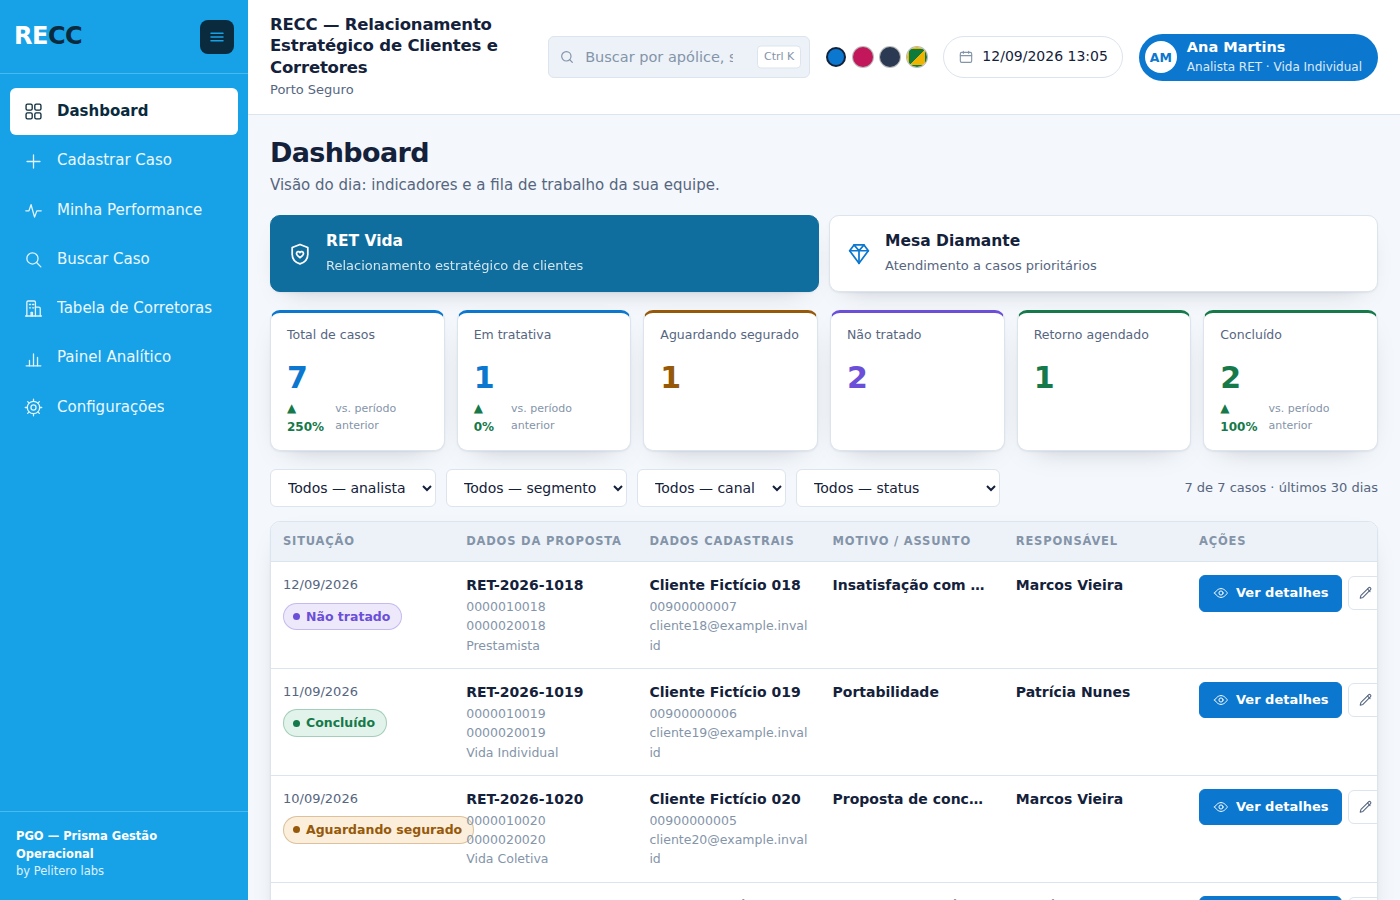
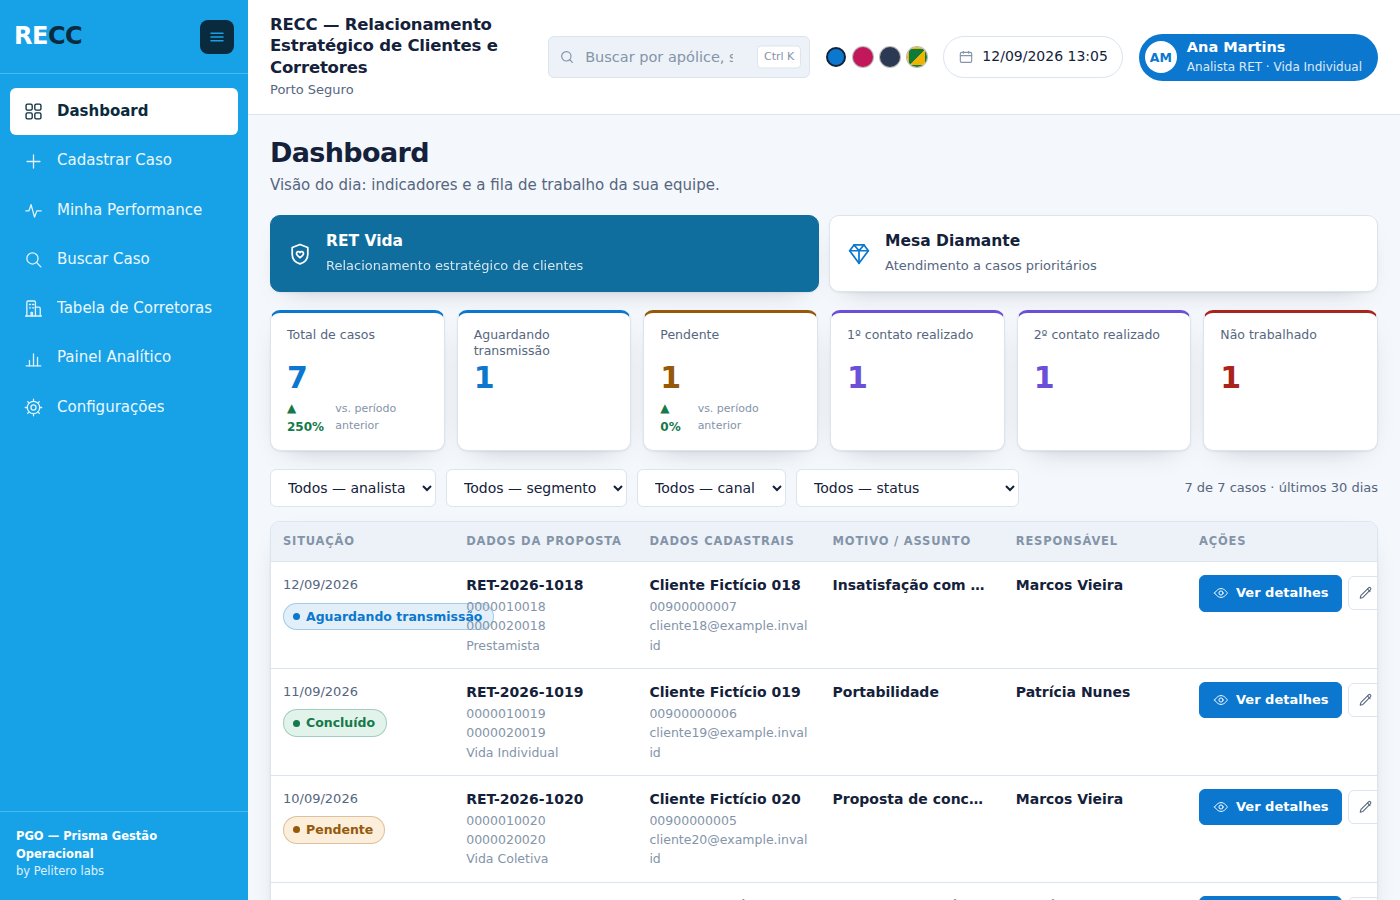
feat: as situacoes e os cards da RET Vida, como a operacao trabalha
As situacoes que eu tinha semeado para a RET eram invencao minha — o
contrato do PO listava a coluna "status", nunca os valores dela.

Situacoes da RET Vida
  Aguardando transmissao, Pendente, 1o contato realizado,
  2o contato realizado, Nao trabalhado e Concluido

Cards do Dashboard
  o total mais as cinco que ainda pedem trabalho. "Concluido" existe
  como situacao mas NAO ganha cartao: o Dashboard responde "o que eu
  tenho que trabalhar hoje", e caso concluido nao e trabalho. Quem
  quiser o numero acrescenta o cartao em Configuracoes → Paineis

Dados ficticios da previa ajustados as situacoes novas.

184 testes, cinco execucoes limpas.

Claude-Session: https://claude.ai/code/session_014N3v7WTiPHUcZbu9vUqUcc

diff --git a/Evolucao/Testes/gerar-previa.js b/Evolucao/Testes/gerar-previa.js
@@ -249,7 +249,7 @@ function gerar(pastaDeSaida) {
     { analista: 'Marcos Vieira', status: 'Concluído',
       'data de recepção do protocolo': diasAtras(41),
       'nome do cliente': 'Retenção do mês passado', protocolo: 'RET-2026-0891' },
-    { analista: 'Patrícia Nunes', status: 'Em tratativa',
+    { analista: 'Patrícia Nunes', status: 'Pendente',
       'data de recepção do protocolo': diasAtras(36),
       'nome do cliente': 'Outra do mês passado', protocolo: 'RET-2026-0892' }
   ]);
@@ -280,7 +280,7 @@ function gerar(pastaDeSaida) {
       'valor do prêmio': 3410.5, 'valor do prêmio retido': 0,
       'prêmio mensal retido': 0, canal: 'Telefone',
       protocolo: 'RET-2026-1023', cod_sucursal: '0000000012', cod_ramo: '0000000993',
-      Num_apolice: '0000020023', CPF: '00900000002', status: 'Não tratado',
+      Num_apolice: '0000020023', CPF: '00900000002', status: 'Não trabalhado',
       'Forma de pagamento': 'Boleto',
       'motivo do cancelamento': 'Coberturas', 'e-mail': 'cliente23@example.invalid',
       'telefones de contato': '11900000023', 'tentativas de contato': 0,
@@ -295,7 +295,7 @@ function gerar(pastaDeSaida) {
       'valor do prêmio': 890, 'valor do prêmio retido': 0,
       'prêmio mensal retido': 0, canal: 'E-mail',
       protocolo: 'RET-2026-1022', cod_sucursal: '0000000012', cod_ramo: '0000000993',
-      Num_apolice: '0000020022', CPF: '00900000003', status: 'Retorno agendado',
+      Num_apolice: '0000020022', CPF: '00900000003', status: '2º contato realizado',
       'Forma de pagamento': 'Cartão de crédito',
       'motivo do cancelamento': 'Dificuldade financeira',
       'e-mail': 'cliente22@example.invalid',
@@ -311,7 +311,7 @@ function gerar(pastaDeSaida) {
       'valor do prêmio': 2140.75, 'valor do prêmio retido': 2140.75,
       'prêmio mensal retido': 178.4, canal: 'Corretora',
       protocolo: 'RET-2026-1021', cod_sucursal: '0000000012', cod_ramo: '0000000993',
-      Num_apolice: '0000020021', CPF: '00900000004', status: 'Em tratativa',
+      Num_apolice: '0000020021', CPF: '00900000004', status: '1º contato realizado',
       'Forma de pagamento': 'PIX',
       'motivo do cancelamento': 'Aumento do prêmio na renovação',
       'e-mail': 'cliente21@example.invalid',
@@ -327,7 +327,7 @@ function gerar(pastaDeSaida) {
       'valor do prêmio': 5620, 'valor do prêmio retido': 0,
       'prêmio mensal retido': 0, canal: 'Ouvidoria',
       protocolo: 'RET-2026-1020', cod_sucursal: '0000000012', cod_ramo: '0000000993',
-      Num_apolice: '0000020020', CPF: '00900000005', status: 'Aguardando segurado',
+      Num_apolice: '0000020020', CPF: '00900000005', status: 'Pendente',
       'Forma de pagamento': 'Boleto',
       'motivo do cancelamento': 'Proposta de concorrente',
       'e-mail': 'cliente20@example.invalid',
@@ -361,7 +361,7 @@ function gerar(pastaDeSaida) {
       'valor do prêmio': 760.2, 'valor do prêmio retido': 0,
       'prêmio mensal retido': 0, canal: 'URA',
       protocolo: 'RET-2026-1018', cod_sucursal: '0000000012', cod_ramo: '0000000993',
-      Num_apolice: '0000020018', CPF: '00900000007', status: 'Não tratado',
+      Num_apolice: '0000020018', CPF: '00900000007', status: 'Aguardando transmissão',
       'Forma de pagamento': 'Boleto',
       'motivo do cancelamento': 'Insatisfação com atendimento',
       'e-mail': 'cliente18@example.invalid',
@@ -388,7 +388,7 @@ function gerar(pastaDeSaida) {
         chamar('inserirRegistro_')('AUDITORIA', {
           DataHora: new Date(), UsuarioId: porNome[caso[coluna]] || '',
           Acao: 'caso.status', Entidade: aba, RegistroId: caso.__id,
-          Detalhe: 'de "Em tratativa" para "Concluído"'
+          Detalhe: 'de "1º contato realizado" para "Concluído"'
         });
       }
     });

diff --git a/Evolucao/Testes/testes-painel.js b/Evolucao/Testes/testes-painel.js
@@ -64,8 +64,11 @@ function rodarTestesDoPainel() {
       'Total de casos | Pendente | Concluído | Finalizados na célula');
 
     const ret = chamar('mesasVisiveis_()').find((m) => m.aba === 'BASE_RET');
-    igual(chamar('resumoDaMesa')(ret.id, {}).cartoes.length, 6,
-      'total mais as cinco situações da RET');
+    const daRet = chamar('resumoDaMesa')(ret.id, {}).cartoes.map((c) => c.rotulo);
+    igual(daRet.join(' | '),
+      'Total de casos | Aguardando transmissão | Pendente | 1º contato realizado'
+      + ' | 2º contato realizado | Não trabalhado',
+      'o total mais as cinco situações que ainda pedem trabalho');
   });
 
   teste('desligar um cartão tira ele da tela e não toca em caso nenhum', () => {
@@ -133,7 +136,10 @@ function rodarTestesDoPainel() {
     const daRet = {};
     chamar('resumoDaMesa')(ret.id, {}).cartoes
       .forEach((c) => { daRet[c.rotulo] = c.valor; });
-    igual(daRet['Em tratativa'], 0, 'situação sem caso vale zero, não some');
+    igual(daRet['Aguardando transmissão'], 0,
+      'situação sem caso vale zero, não some');
+    verdadeiro(!Object.prototype.hasOwnProperty.call(daRet, 'Concluído'),
+      'a RET não abre com cartão de concluído: o painel é o que falta fazer');
   });
 
   teste('cada situação leva a sua cor para o cartão e para a fila', () => {

diff --git a/Evolucao/Testes/testes-cadastro.js b/Evolucao/Testes/testes-cadastro.js
@@ -47,7 +47,7 @@ function rodarTestesDeCadastro() {
     igual(status.tipo, 'seletor');
     igual(status.opcoes.length, 6, 'os seis status da Mesa Diamante');
     igual(status.opcoes[0].valor, 'Transmissão pendente');
-    verdadeiro(!status.opcoes.some((o) => o.valor === 'Em tratativa'),
+    verdadeiro(!status.opcoes.some((o) => o.valor === 'Aguardando transmissão'),
       'status da RET não pode aparecer na Mesa');
 
     const canal = todos.find((campo) => campo.chave === 'canal');
